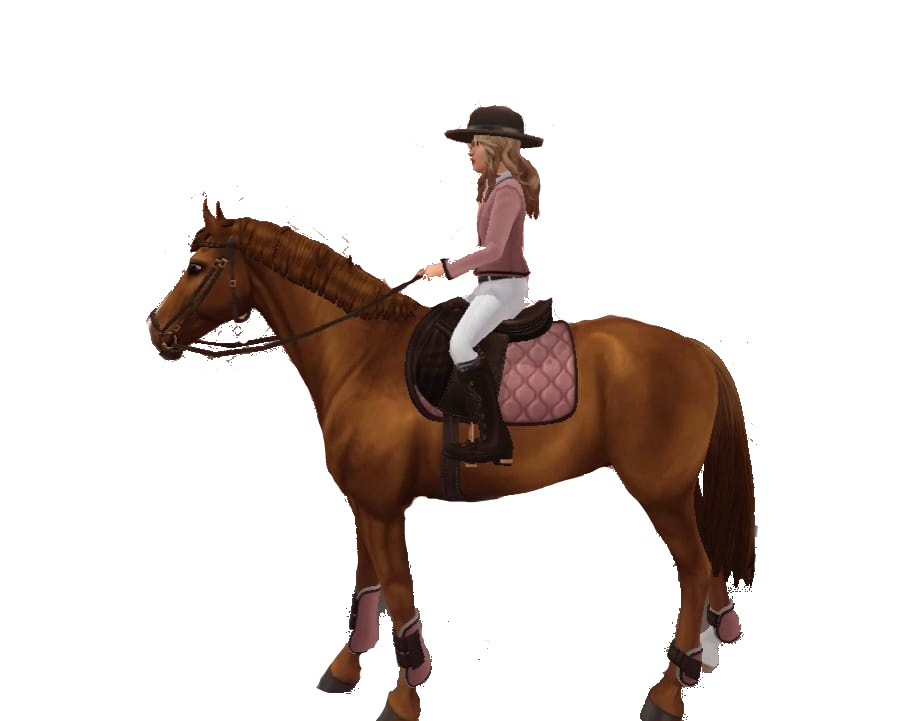
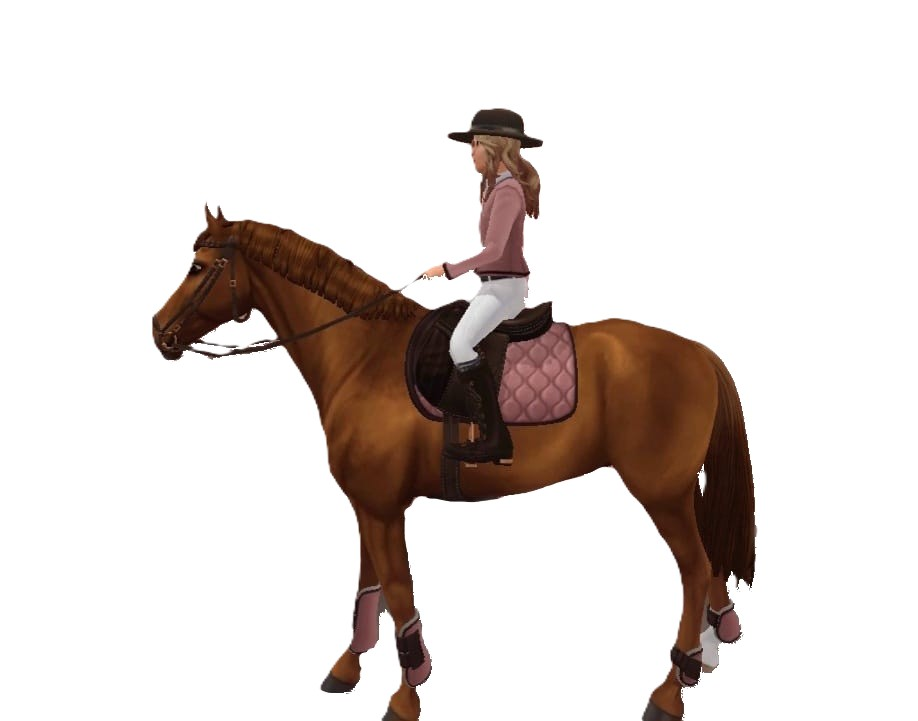
Hintergrund-Bild, Sonnen entfernt, Outfit-Bild transparent

diff --git a/style.css b/style.css
@@ -8,6 +8,10 @@
 body {
   font-family: 'Segoe UI', Tahoma, Geneva, Verdana, sans-serif;
   background-color: #f5d0d0;
+  background-image: url('website%20hintergrund%20Sunshine%20runners%20allstars.jpeg');
+  background-size: cover;
+  background-attachment: fixed;
+  background-position: center;
   color: #5d4037;
   min-height: 100vh;
   overflow-x: hidden;
@@ -142,41 +146,6 @@ body {
   border-bottom: 3px solid #ffcc80;
 }
 
-/* ===== Sonnen-Deko im Hintergrund ===== */
-.sun-deco {
-  position: fixed;
-  top: 0;
-  left: 0;
-  width: 100%;
-  height: 100%;
-  pointer-events: none;
-  z-index: 2;
-  overflow: hidden;
-}
-
-.sun {
-  position: absolute;
-  font-size: 30px;
-  opacity: 0.35;
-  animation: floatSun 7s ease-in-out infinite;
-}
-
-.sun-1 { top: 12%; left: 5%; animation-delay: 0s; font-size: 36px; }
-.sun-2 { top: 35%; right: 8%; animation-delay: 1.2s; font-size: 28px; }
-.sun-3 { top: 60%; left: 12%; animation-delay: 2.5s; font-size: 24px; }
-.sun-4 { top: 50%; right: 18%; animation-delay: 3.5s; font-size: 32px; }
-.sun-5 { top: 80%; left: 45%; animation-delay: 4.5s; font-size: 20px; }
-.sun-6 { top: 20%; right: 30%; animation-delay: 5.5s; font-size: 26px; }
-.sun-7 { top: 72%; right: 5%; animation-delay: 1.8s; font-size: 30px; }
-.sun-8 { top: 8%; left: 40%; animation-delay: 3s; font-size: 22px; }
-.sun-9 { top: 45%; left: 3%; animation-delay: 4s; font-size: 28px; }
-.sun-10 { top: 90%; left: 20%; animation-delay: 5s; font-size: 34px; }
-
-@keyframes floatSun {
-  0%, 100% { transform: translateY(0) rotate(0deg); }
-  50% { transform: translateY(-18px) rotate(15deg); }
-}
-
 /* ===== Hauptinhalt ===== */
 .content {
   max-width: 800px;
@@ -271,7 +240,7 @@ body {
 
 .outfit-image {
   flex-shrink: 0;
-  background-color: #f5d0d0;
+  background-color: transparent;
   border-radius: 10px;
 }
 

diff --git a/index.html b/index.html
@@ -33,20 +33,6 @@
 </head>
 <body>
 
-  <!-- Sonnen im Hintergrund -->
-  <div class="sun-deco" aria-hidden="true">
-    <span class="sun sun-1">🔆</span>
-    <span class="sun sun-2">🔆</span>
-    <span class="sun sun-3">🔆</span>
-    <span class="sun sun-4">🔆</span>
-    <span class="sun sun-5">🔆</span>
-    <span class="sun sun-6">🔆</span>
-    <span class="sun sun-7">🔆</span>
-    <span class="sun sun-8">🔆</span>
-    <span class="sun sun-9">🔆</span>
-    <span class="sun sun-10">🔆</span>
-  </div>
-
   <!-- Titelleiste -->
   <div class="title-bar">
     <img src="sunshine runners allstars braune überschrift.jpeg" alt="Sunshine Runners Allstars - Star Stable Online Club" class="title-image">